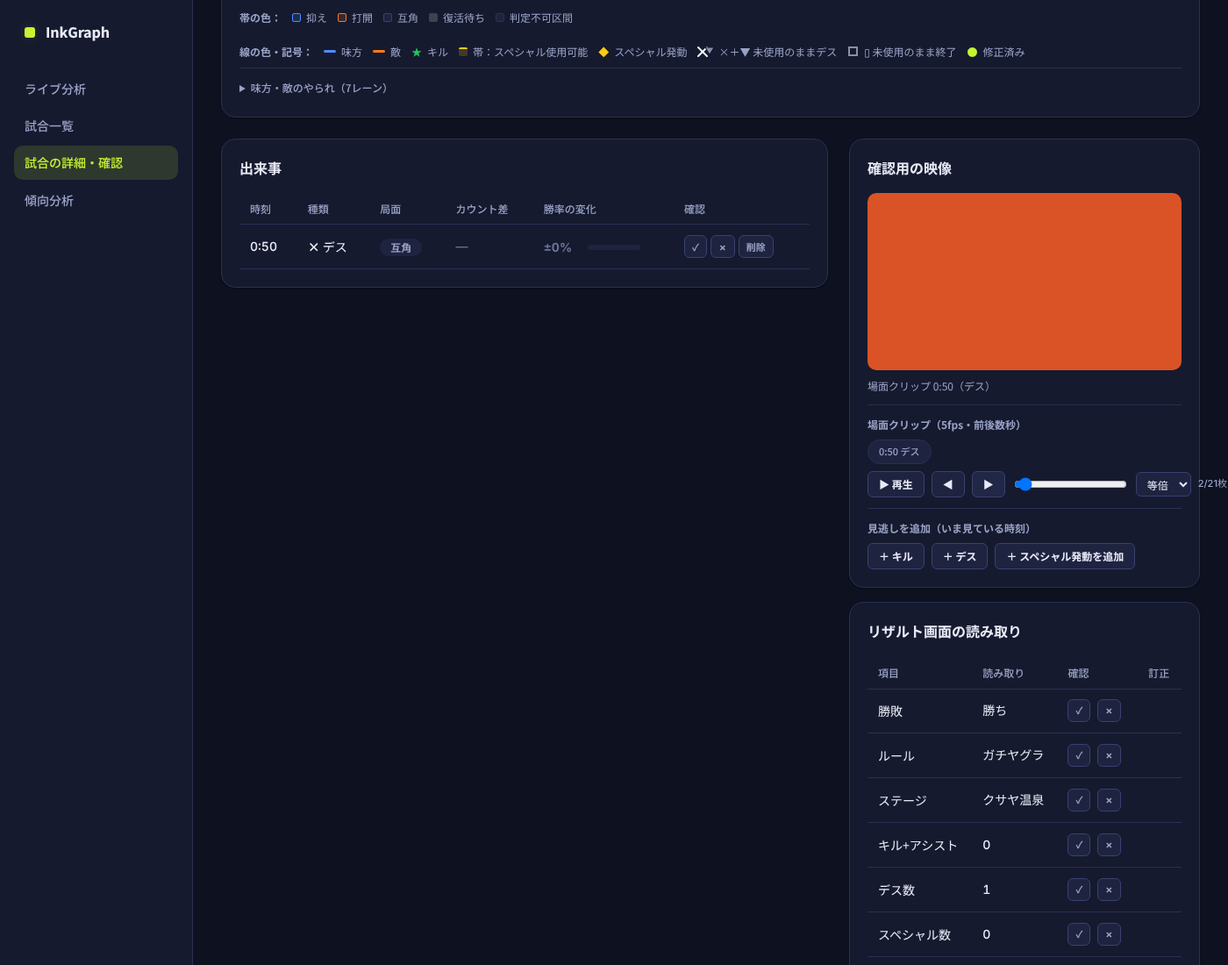
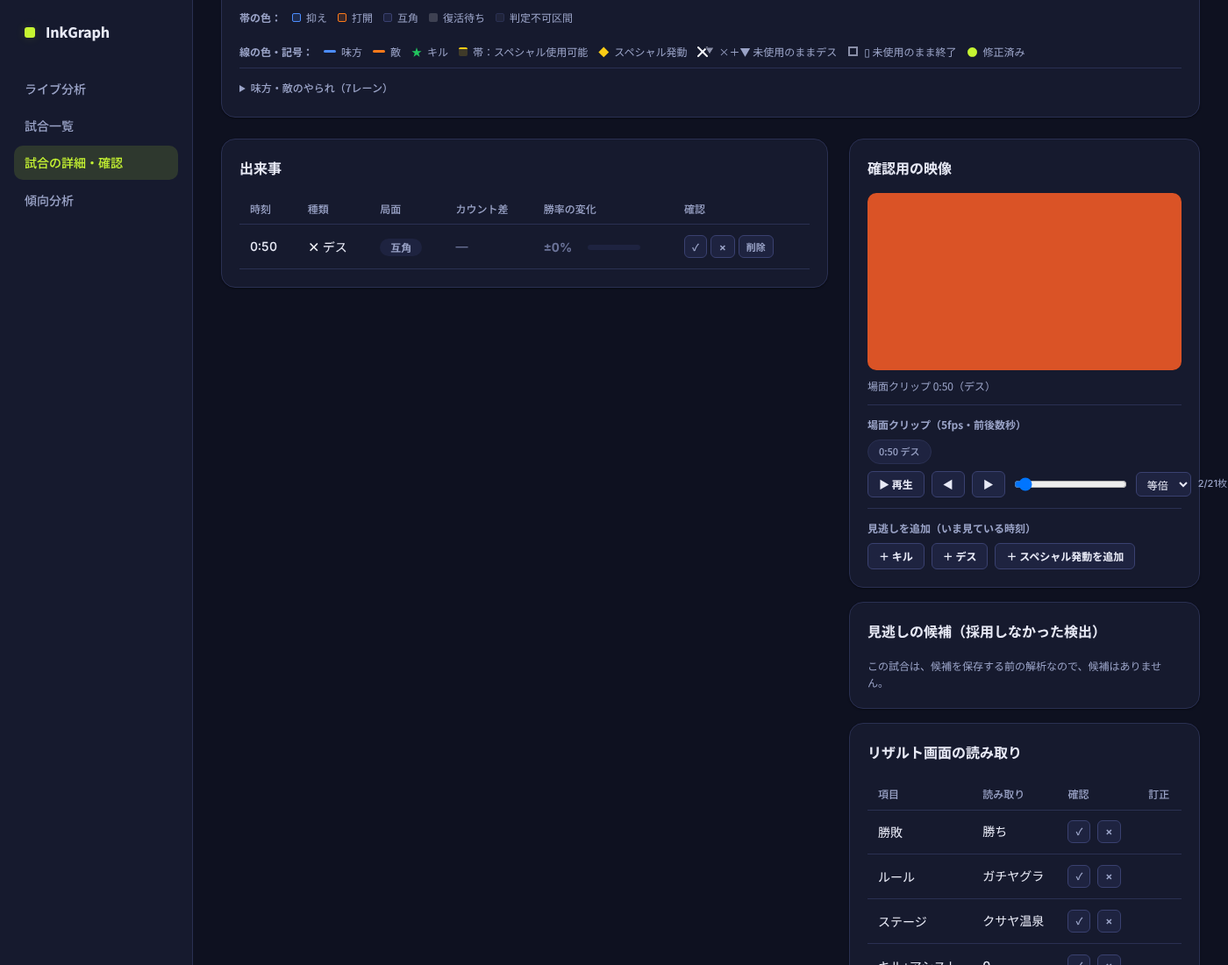
採用しなかった候補を記録に残し、レビューで人が目星をつけて追加・見送りできる (D78) (#176)
* 検証録画: 直近1試合の全コマ＋分析結果のzip書き出し (D67)

Claude-Session: https://claude.ai/code/session_018zsqgbHNLDpb8cVTBpk5SR

* 試合ごとの録画ファイル: ルール・ステージ入りの名前で1試合1ファイル (D68)

Claude-Session: https://claude.ai/code/session_018zsqgbHNLDpb8cVTBpk5SR

* 試合録画にゲーム音を追加 (D68追記)

Claude-Session: https://claude.ai/code/session_018zsqgbHNLDpb8cVTBpk5SR

* ブキアイコンの読み違い対策（ボードの数が読めない枠を捨てる・絵の無いアイコンを出さない）と記録の全消去ボタン (D69)

Claude-Session: https://claude.ai/code/session_018zsqgbHNLDpb8cVTBpk5SR

* 試合録画: 状況表示と保存先の書き込み許可の聞き直し (D70)

Claude-Session: https://claude.ai/code/session_018zsqgbHNLDpb8cVTBpk5SR

* 試合録画: 2試合連続で別ファイルになることのテストを追加

Claude-Session: https://claude.ai/code/session_018zsqgbHNLDpb8cVTBpk5SR

* Windows デスクトップ版（Electron）の追加。ブラウザ版は録画なし・隠さない注意つきで残す (D71)

Claude-Session: https://claude.ai/code/session_018zsqgbHNLDpb8cVTBpk5SR

* 録画の診断通知を各段階に追加 (D71追記)

Claude-Session: https://claude.ai/code/session_018zsqgbHNLDpb8cVTBpk5SR

* Windows版ビルドをmainの変更で自動実行し、固定リリース desktop-latest に出す

Claude-Session: https://claude.ai/code/session_018zsqgbHNLDpb8cVTBpk5SR

* ライブ映像で「早送り」が渡って録画・中断検出が切れていた不具合を修正 (D71追記)

Claude-Session: https://claude.ai/code/session_018zsqgbHNLDpb8cVTBpk5SR

* 録画形式をMP4(H.264)にする。WebMも選べる (D72)

Claude-Session: https://claude.ai/code/session_018zsqgbHNLDpb8cVTBpk5SR

* video_rec_check: 既定のMP4に合わせてテストを更新

Claude-Session: https://claude.ai/code/session_018zsqgbHNLDpb8cVTBpk5SR

* 録画を60fps・音声192kbpsに。画質(5/8/12Mbps)を選べる (D72追記)
[…]

diff --git a/web/src/main.js b/web/src/main.js
@@ -2024,6 +2024,7 @@ PAGES.match = async () => {
 
   m.review = m.review || { marks: {}, added: [], fix: {}, rmarks: {} };
   m.review.rmarks = m.review.rmarks || {};
+  m.review.cand_dismissed = m.review.cand_dismissed || [];
   m.review.fix = m.review.fix || {};
   const save = async () => {
     m.review.updated = new Date().toISOString();
@@ -2136,6 +2137,12 @@ PAGES.match = async () => {
             </div>
           </div>
         </div>
+
+        ${m.remote ? '' : `<div class="card" id="cand-card">
+          <div class="card-title">見逃しの候補（採用しなかった検出）</div>
+          <div class="muted" id="cand-hint" style="font-size:var(--fs-xs);margin-bottom:6px"></div>
+          <div id="cand-list"></div>
+        </div>`}
 
         <div class="card">
           <div class="card-title">リザルト画面の読み取り</div>
@@ -2419,9 +2426,58 @@ PAGES.match = async () => {
     if (tlEl && tlEl.setPlayhead) tlEl.setPlayhead(t);
   };
 
+  // D78: 採用しなかった候補。検知できなかった出来事（足りないデス等）の場所を探すための目星。録画の該当箇所を見て、あれば追加、無ければ見送る
+  const CAND_KINDS = [['death', 'デス'], ['special', 'スペシャル発動'], ['kill', 'キル']];
+  const SIG_JA = { sig: '「やられた」表示', hud: 'HUD の自分アイコン×', killer: '倒した相手の吹き出し', notice: 'キル通知', notice_soft: '弱いキル通知', enemy: '敵アイコン×' };
+  const SRC_JA = { signal_soft: '「やられた」が弱い', hud_soft: 'HUD の自分アイコンだけ' };
+  const candTime = (kind, c) => (kind === 'special' ? c.end : c.start);
+  const candKey = (kind, c) => `${kind}@${candTime(kind, c).toFixed(1)}`;
+  const candAdded = (kind, c) => (m.review.added || []).some(a => a.kind === kind && Math.abs(a.t - candTime(kind, c)) <= 1.5);
+  const candDismissed = (kind, c) => (m.review.cand_dismissed || []).includes(candKey(kind, c));
+  let candShowAll = false, candShowDismissed = false;
+  const visibleCands = () => { const out = []; for (const [k] of CAND_KINDS) for (const c of ((m.cands || {})[k] || [])) if (!candAdded(k, c) && !candDismissed(k, c)) out.push({ kind: k, t: candTime(k, c), from: k === 'special' ? c.ready : undefined, conf: c.conf }); return out; };
+  const candDraw = () => {
+    const host = $('#cand-list', page), hint = $('#cand-hint', page); if (!host) return;
+    if (!m.cands) { hint.textContent = ''; host.innerHTML = '<div class="muted">この試合は、候補を保存する前の解析なので、候補はありません。</div>'; return; }
+    const eff = effective(m), cnt = k => eff.filter(e => e.kind === k).length, r = resultOf(m), L = [];
+    const gap = (lab, target, k) => { if (!Number.isInteger(target)) return; const n = cnt(k), d = target - n; L.push(`${lab}: リザルト画面 ${target}／いまの記録 ${n} → ${d > 0 ? `<strong>あと ${d} 件足りません</strong>` : d < 0 ? `<strong>${-d} 件多い</strong>（誤検出の可能性。出来事の ✗ で外せます）` : '一致'}`); };
+    gap('デス', r.deaths, 'death'); gap('スペシャル発動', r.specials, 'special');
+    if (Number.isInteger(r.ka)) L.push(`キル: K+A ${r.ka}／いまの記録 ${cnt('kill')}（アシスト込みなので、少なくても不足とは限りません${cnt('kill') > r.ka ? '。<strong>K+A を超えています</strong>' : ''}）`);
+    hint.innerHTML = L.join('<br>') || 'リザルト画面の数を読めていないので、足りない数は分かりません。';
+    const sigText = c => [...(c.sigs || []).map(x => SIG_JA[x] || x), ...(c.src && !(c.sigs || []).length ? [SRC_JA[c.src] || c.src] : [])].join('・') || '信号が弱い';
+    let html = '';
+    for (const [k, lab] of CAND_KINDS) {
+      let list = ((m.cands || {})[k] || []).filter(c => candShowDismissed || !candDismissed(k, c)).sort((a, b) => b.conf - a.conf);
+      if (!list.length) { html += `<div class="review-section-title" style="margin-top:8px">${lab}</div><div class="muted" style="font-size:var(--fs-xs)">候補なし</div>`; continue; }
+      const total = list.length; if (!candShowAll) list = list.slice(0, 6);
+      html += `<div class="review-section-title" style="margin-top:8px">${lab}（確信度の高い順）</div>` + list.map(c => {
+        const added = candAdded(k, c), dis = candDismissed(k, c), t = candTime(k, c);
+        return `<div class="cand-row" data-kind="${k}" data-t="${t}" style="display:flex;align-items:center;gap:6px;flex-wrap:wrap;padding:3px 0;opacity:${dis ? 0.5 : 1}">
+          <span class="num" style="min-width:44px">${mss1(t)}</span><span class="muted" style="font-size:var(--fs-xs);min-width:40px">${Math.round(c.conf * 100)}%</span>
+          <span class="muted" style="font-size:var(--fs-xs);flex:1;min-width:120px">${esc(sigText(c))}</span>
+          <button class="btn btn-sm cand-see" type="button">見る</button>
+          ${added ? '<span class="muted">追加済み</span>' : dis ? '<button class="btn btn-sm cand-undismiss" type="button">戻す</button>' : '<button class="btn btn-sm cand-add" type="button">＋ 追加</button><button class="btn btn-sm cand-dismiss" type="button">見送る</button>'}
+        </div>`;
+      }).join('') + (total > 6 && !candShowAll ? `<div class="muted" style="font-size:var(--fs-xs)">ほか ${total - 6} 件</div>` : '');
+    }
+    html += `<div style="margin-top:8px;display:flex;gap:12px;flex-wrap:wrap;font-size:var(--fs-xs)"><label><input type="checkbox" id="cand-all" ${candShowAll ? 'checked' : ''}> すべて表示</label><label><input type="checkbox" id="cand-dis" ${candShowDismissed ? 'checked' : ''}> 見送った候補も表示</label></div>
+      <div class="muted" style="font-size:var(--fs-xs);margin-top:4px">タイムラインの点線の丸（？）が候補です。録画で確かめて、あれば「追加」、無ければ「見送る」。追加すると、時刻つきの正解データになります。</div>`;
+    host.innerHTML = html;
+    host.querySelectorAll('.cand-row').forEach(row => {
+      const k = row.dataset.kind, t = +row.dataset.t, c = ((m.cands || {})[k] || []).find(x => Math.abs(candTime(k, x) - t) < 1e-6);
+      $('.cand-see', row).onclick = () => seek(t);
+      const add = $('.cand-add', row); if (add) add.onclick = async () => { m.review.added.push({ kind: k, t: Math.round(t * 10) / 10, cand: { conf: c.conf, src: c.src ?? null, sigs: c.sigs ?? null } }); await save(); refresh(); };
+      const dis = $('.cand-dismiss', row); if (dis) dis.onclick = async () => { m.review.cand_dismissed.push(candKey(k, c)); await save(); refresh(); };
+      const und = $('.cand-undismiss', row); if (und) und.onclick = async () => { m.review.cand_dismissed = m.review.cand_dismissed.filter(x => x !== candKey(k, c)); await save(); refresh(); };
+    });
+    $('#cand-all', host).onchange = e => { candShowAll = e.target.checked; candDraw(); };
+    $('#cand-dis', host).onchange = e => { candShowDismissed = e.target.checked; candDraw(); };
+  };
+
   const drawTL = (opts = {}) => {
     tlEl = renderTimeline(m, {
       reviewMode,
+      cands: reviewMode ? visibleCands() : null,
       onSeek: seek,
       // ヤグラ保持ラベル / カウント点の変更: 保存して帯を描き直す（カウント追加・削除ではポップオーバーを開いたままにする）
       onReviewChange: async ({ reopen, focus }) => { await save(); drawTL({ reopen, focus }); },
@@ -2620,6 +2676,7 @@ PAGES.match = async () => {
     drawTL();
     etab();
     accDraw();
+    candDraw();
   };
 
   rtab();

diff --git a/desktop/tools/desktop_check.js b/desktop/tools/desktop_check.js
@@ -148,6 +148,26 @@ app.whenReady().then(async () => {
     await js(`document.querySelector('#rec-repair-btn').click()`); await sleep(3500);
     const a1 = atoms(fragPath), flag2 = await js(`window.inkgraph.db.getMatch('old#1').then(m => m.recording.remuxed)`);
     check(a1.includes('moov') && a1.indexOf('moov') < a1.indexOf('mdat') && !a1.includes('moof') && flag2 === true && await js(`!document.querySelector('#rec-repair')`), '(24) 変換すると、シークできる形式になり、印が付いてボタンが消える', a1.join(','));
+    // D78: 採用しなかった候補。レビューで、足りない出来事の場所を探す目星として出る。追加すると見逃しとして記録され、見送ると隠れる
+    await js(`window.inkgraph.db.putMatch({ id: 'cand#1', match: 1, created: new Date().toISOString(), battle: [0, 100], squid_down: {}, own_deaths: [{ start: 20, end: 22, conf: 0.9 }], own_kills: [], special: [], stills: { count: 0, bytes: 0 }, video: { kind: 'none' },
+      result_screen: { result: 'WIN', mode: 'ガチエリア', stage: 'テスト', own: { ka: 3, deaths: 3, specials: 0 } },
+      cands: { death: [{ start: 40, end: 42, conf: 0.7, src: 'hud_soft', sigs: ['hud'] }, { start: 60, end: 62, conf: 0.3, src: 'signal_soft', sigs: ['sig'] }, { start: 80, end: 82, conf: 0.2, src: 'signal_soft', sigs: ['sig'] }], special: [{ ready: 50, end: 55, conf: 0.25 }], kill: [{ start: 70, end: 71.5, conf: 0.2, sigs: ['notice_soft'] }] },
+      review: { marks: {}, added: [], fix: {}, rmarks: {} } })`);
+    await js(`window.inkgraph.setReviewMode(true); window.inkgraph.nav('match', 'cand#1')`); await sleep(2500);
+    const c1 = await js(`({ hint: document.querySelector('#cand-hint').textContent, rows: [...document.querySelectorAll('.cand-row')].map(r => r.dataset.kind), marks: document.querySelectorAll('.cand-mark').length, first: document.querySelector('.cand-row[data-kind=death]').textContent.replace(/\\s+/g, ' ').trim() })`);
+    check(/デス: リザルト画面 3／いまの記録 1 → あと 2 件足りません/.test(c1.hint) && c1.rows.filter(x => x === 'death').length === 3 && c1.rows.length === 5 && c1.marks === 5 && /0:40/.test(c1.first) && /70%/.test(c1.first) && /HUD の自分アイコン×/.test(c1.first), '(26) レビューで、足りない数と、採用しなかった候補（確信度の高い順・信号つき）、タイムラインの候補の印が出る', JSON.stringify(c1));
+    await js(`document.querySelector('.cand-row[data-kind=death] .cand-add').click()`); await sleep(800);
+    const c2 = await js(`window.inkgraph.db.getMatch('cand#1').then(m => ({ added: m.review.added, hint: document.querySelector('#cand-hint').textContent, marks: document.querySelectorAll('.cand-mark').length, row: document.querySelector('.cand-row[data-kind=death] span:last-of-type')?.textContent }))`);
+    check(c2.added.length === 1 && c2.added[0].kind === 'death' && c2.added[0].t === 40 && c2.added[0].cand.conf === 0.7 && /あと 1 件足りません/.test(c2.hint) && c2.marks === 4, '(27) 「追加」で、候補の時刻に見逃しとして追加され（候補の確信度つき）、足りない数と印が更新される', JSON.stringify(c2));
+    await js(`[...document.querySelectorAll('.cand-row[data-kind=death] .cand-dismiss')][0].click()`); await sleep(800);
+    const c3 = await js(`window.inkgraph.db.getMatch('cand#1').then(m => ({ dis: m.review.cand_dismissed, rows: document.querySelectorAll('.cand-row[data-kind=death]').length, marks: document.querySelectorAll('.cand-mark').length }))`);
+    check(c3.dis.length === 1 && /^death@/.test(c3.dis[0]) && c3.rows === 2 && c3.marks === 3, '(28) 「見送る」で、その候補が隠れ、印も消える', JSON.stringify(c3));
+    await js(`document.querySelector('#cand-dis').click()`); await sleep(500);
+    check(await js(`document.querySelectorAll('.cand-row[data-kind=death]').length === 3 && !!document.querySelector('.cand-undismiss')`), '(29) 「見送った候補も表示」で再表示でき、「戻す」が出る');
+    // 要修正パックに、候補の使われ方が入る
+    const fd = await js(`window.inkgraph.db.getMatch('cand#1').then(m => window.inkgraph.buildFixPack([m]).then(async r => { const u = new Uint8Array(await r.blob.arrayBuffer()); let s = ''; for (let i = 0; i < u.length; i += 32768) s += String.fromCharCode(...u.subarray(i, i + 32768)); return btoa(s); }))`);
+    const z2 = require('../../web/node_modules/fflate').unzipSync(new Uint8Array(Buffer.from(fd, 'base64'))), dj = JSON.parse(require('../../web/node_modules/fflate').strFromU8(z2[Object.keys(z2).find(n => n.endsWith('diff.json'))]));
+    check(dj.candidates.saved && dj.candidates.added_from_candidates === 1 && dj.candidates.dismissed === 1 && dj.misses[0].from_candidate === true, '(30) 要修正パックの diff に、候補の使われ方（候補から追加／見送った数）が入る', JSON.stringify(dj.candidates));
   } catch (e) { console.log('FAIL exception', e); fails++; }
   fs.rmSync(tmp, { recursive: true, force: true }); app.exit(fails ? 1 : 0);
 });

diff --git a/web/src/fix_pack.js b/web/src/fix_pack.js
@@ -22,11 +22,13 @@ export function diffOf(m) {
   const r = m.review || { marks: {}, added: [], fix: {}, rmarks: {} };
   const det = detected(m), fp = [], confirmed = []; let unreviewed = 0;
   for (const e of det) { const o = { kind: e.kind, t: r1(e.t), rel: rel(m, e.t), key: e.key }; if (e.mark === 'wrong' || e.mark === 'deleted') fp.push(o); else if (e.mark === 'ok') confirmed.push(o); else unreviewed++; }
-  const misses = (r.added || []).map(a => ({ kind: a.kind, t: r1(a.t), rel: rel(m, a.t) }));
+  const misses = (r.added || []).map(a => ({ kind: a.kind, t: r1(a.t), rel: rel(m, a.t), from_candidate: !!a.cand, candidate_conf: a.cand ? a.cand.conf : null }));
   const rs = m.result_screen || {}, own = rs.own || {}, read = { result: rs.result, mode: rs.mode, stage: rs.stage, ka: own.ka, deaths: own.deaths, specials: own.specials }, fixes = [];
   for (const [f, v] of Object.entries(r.fix || {})) if (v !== undefined && v !== null && v !== '') fixes.push({ field: f, label: RESULT_FIELDS[f] || f, software: read[f] ?? null, human: v });
   const wrongNoFix = Object.entries(r.rmarks || {}).filter(([f, v]) => v === 'wrong' && !(r.fix && r.fix[f] !== undefined)).map(([f]) => f);
-  return { false_positives: fp, misses, confirmed, result_fixes: fixes, result_wrong_without_value: wrongNoFix, unreviewed };
+  // D78: 候補（採用しなかった検出）の使われ方。見逃しのうち、候補にあったもの（目星が当たった）と、候補に無かったもの（検出の取りこぼし）
+  const candidates = { saved: !!m.cands, added_from_candidates: misses.filter(x => x.from_candidate).length, added_not_in_candidates: misses.filter(x => !x.from_candidate).length, dismissed: (r.cand_dismissed || []).length };
+  return { false_positives: fp, misses, confirmed, result_fixes: fixes, result_wrong_without_value: wrongNoFix, unreviewed, candidates };
 }
 
 /** 録画（または静止画）から切り出すコマの時刻（解析時刻 t）。差分の前後 ±win 秒を step 秒おき。重なりはまとめる */
@@ -62,7 +64,8 @@ export function fixReadme({ count, exported, withFrames }) {
     '',
     '【中身】（試合ごとに matches/<id>/）',
     '- summary.json … ソフトの検出（デス・キル・スペシャル）・結果画面の読み取り・人が直したあとの値・補正の履歴',
-    '- diff.json … ソフトと人の差分。false_positives=誤検出（ソフトは出したが実際は無い）、misses=見逃し（人が追加）、confirmed=合っていた検出、result_fixes=結果画面の読み違い。各項目の t は解析時刻[秒]、rel はバトル開始からの秒',
+    '- diff.json … ソフトと人の差分。false_positives=誤検出（ソフトは出したが実際は無い）、misses=見逃し（人が追加。from_candidate=採用しなかった候補から追加したか）、confirmed=合っていた検出、result_fixes=結果画面の読み違い、candidates=候補の使われ方（候補にあった見逃し／候補に無かった見逃し／見送った候補の数）。各項目の t は解析時刻[秒]、rel はバトル開始からの秒',
+    '- software.json の cands … ソフトが採用しなかった候補（デス・スペシャル・キル。時刻・確信度・信号）。見逃しが候補にあったなら、採用の基準（閾値・合議）の問題、候補にも無ければ、信号そのものの取りこぼし',
     '- human_review.json … 人が付けた ✓／✗ の印・追加した見逃し・訂正した値（review）',
     '- software.json … ソフトの分析結果そのもの（rec。cues=フレームごとの信号を含む）',
     '- frames/ … 差分の前後のコマ（録画から切り出し）。ファイル名は 解析時刻。diff.json の frames に対応表あり',

diff --git a/web/src/core/analyzer.js b/web/src/core/analyzer.js
@@ -250,7 +250,8 @@ export function killEventsFromSlots(t, F) {
   events.sort((x, y) => x.start - y.start || x.slot - y.slot);
   return events.map(e => ({ start: e.start, end: e.end }));
 }
-export const SOFT_DEATH_TH = 0.35, SOFT_READY_TH = 0.12;
+export const SOFT_DEATH_TH = 0.35, SOFT_READY_TH = 0.12, SOFT_KILL_TH = 0.3;
+export const CAND_MAX = 15, CAND_MIN_CONF = 0.1; // D78: 記録に残す、採用しなかった候補の数の上限（種類ごと）と確信度の下限
 const meanOf = a => a.length ? a.reduce((s, v) => s + v, 0) / a.length : 0;
 export function buildMatch(m, no, srcH, ctx = {}) {
   // キル通知のしきい値（kill_th）は保存した通知スコア（ksc）から判定し直す。既定 0.6 は従来の killNoticeSlots と同じ
@@ -310,8 +311,17 @@ export function buildMatch(m, no, srcH, ctx = {}) {
     : runs(t, F.map(f => f.kill), 0.2, 1.0).map(([a, b]) => ({ start: r1(a), end: r1(b) }));
   const enemyDown = ['R0', 'R1', 'R2', 'R3'].flatMap(k => ev[k] || []).filter(e => e.src === 'hud').map(e => e.start);
   for (const e of kills) { const r = fuseKill({ notice: Math.max(0, ...inWin(e.start - 0.2, e.end + 0.2).map(f => f.ks || 0)), enemy: enemyDown.some(s => s >= e.start - 1.5 && s <= e.end + 2.5) }); e.conf = r.conf; e.sigs = r.signals; }
+  // D78: 採用しなかった候補（レビューで、検知できなかった出来事の場所を探すための目星）。種類ごとに確信度の高い順に上限まで
+  const nearAny = (a, b, L, ka, kb, m2) => L.some(e => a <= e[kb] + m2 && e[ka] <= b + m2);
+  const killCands = runs(t, F.map(f => (f.ks || 0) >= SOFT_KILL_TH), 0.3, 1.0).map(([a, b]) => { const w = inWin(a - 0.2, b + 0.2), r = fuseKill({ notice: Math.max(0, ...w.map(f => f.ks || 0)), enemy: enemyDown.some(x => x >= a - 1.5 && x <= b + 2.5) }); const nt = Math.max(0, ...w.map(f => f.ks || 0)); return { start: r1(a), end: r1(b), conf: Math.max(r.conf, +(0.1 + 0.3 * Math.min(1, Math.max(0, (nt - SOFT_KILL_TH) / 0.3))).toFixed(2)), sigs: r.signals.length ? r.signals : ['notice_soft'] }; })
+    .filter(c => !nearAny(c.start, c.end, kills, 'start', 'end', 1.5));
+  const cands = {
+    death: deathCands.filter(c => c.conf >= CAND_MIN_CONF).sort((a, b) => b.conf - a.conf).slice(0, CAND_MAX).map(c => ({ start: c.start, end: c.end, conf: c.conf, src: c.src, sigs: c.sigs })).sort((a, b) => a.start - b.start),
+    special: spCands.filter(c => c.conf >= CAND_MIN_CONF && !nearAny(c.ready, c.end, sp, 'ready', 'end', 1.0)).sort((a, b) => b.conf - a.conf).slice(0, CAND_MAX).sort((a, b) => a.ready - b.ready),
+    kill: killCands.filter(c => c.conf >= CAND_MIN_CONF).sort((a, b) => b.conf - a.conf).slice(0, CAND_MAX).sort((a, b) => a.start - b.start)
+  };
   const rr = x => x.map(([a, b]) => [r1(a), r1(b)]); const dur = n ? t[n - 1] - t[0] : 0;
-  const rec = { match: no, battle: [r1(m.a), r1(m.b)], squid_down: ev, own_deaths: ev.L0, special: sp, own_kills: kills, hud_hidden: rr(hidden), map_open: rr(maps),
+  const rec = { match: no, battle: [r1(m.a), r1(m.b)], squid_down: ev, own_deaths: ev.L0, special: sp, own_kills: kills, cands, hud_hidden: rr(hidden), map_open: rr(maps),
     stats: { duration: r1(dur), map_open_s: r1(maps.reduce((s, [a, b]) => s + b - a, 0)), hud_hidden_s: r1(hidden.reduce((s, [a, b]) => s + b - a, 0)) }, team_hue: m.th };
   for (const e of rec.own_deaths) { const [a, b] = aliveAt(rec, e.start - 0.5); e.alive_before = `${a}v${b}`; }
   attachKillers(rec.own_deaths, m.kscan || []);

diff --git a/web/src/timeline.js b/web/src/timeline.js
@@ -38,7 +38,7 @@ export const LEGEND = `
   </div>
 </div>`;
 
-export function renderTimeline(m, { onSeek, onReviewChange, reviewMode } = {}) {
+export function renderTimeline(m, { onSeek, onReviewChange, reviewMode, cands = null } = {}) {
   if (popAbort) popAbort.abort();
   popAbort = new AbortController();
   const popSignal = popAbort.signal;
@@ -155,6 +155,19 @@ export function renderTimeline(m, { onSeek, onReviewChange, reviewMode } = {}) {
       + `<line x1="${ax.toFixed(1)}" x2="${ax.toFixed(1)}" y1="${ownY}" y2="${ownY + ownH}" stroke="var(--special)" stroke-width="2"/>`
       + `<polygon points="${ax.toFixed(1)},${ownY + 2} ${(ax + 5).toFixed(1)},${ownY + 7} ${ax.toFixed(1)},${ownY + 12} ${(ax - 5).toFixed(1)},${ownY + 7}" fill="var(--special)" class="sp-activated-diamond"/>`
       + `</g>`;
+  }
+
+  // D78: 採用しなかった候補（レビューモードのみ）。見逃しの場所を探す目星。点線の丸＝候補（濃いほど確信度が高い）、スペシャルは点線の帯
+  if (cands && cands.length) {
+    const CK = { kill: 'キル', death: 'デス', special: 'スペシャル発動' };
+    for (const c of cands) {
+      const cx = X(c.t), cy = rowY[c.kind], op = (0.45 + 0.55 * Math.min(1, c.conf * 1.4)).toFixed(2);
+      const tip = `候補 ${mss(c.t - t0)} ${CK[c.kind] || c.kind}（確信度 ${Math.round(c.conf * 100)}%）`;
+      body += `<g class="cand-mark" data-t="${c.t}" data-kind="${c.kind}" style="cursor:pointer" opacity="${op}"><title>${tip}</title>`
+        + (c.kind === 'special' && c.from != null ? `<rect x="${X(c.from).toFixed(1)}" y="${cy - 5}" width="${Math.max(2, X(c.t) - X(c.from)).toFixed(1)}" height="10" fill="none" stroke="var(--special)" stroke-width="1" stroke-dasharray="3 2"/>` : '')
+        + `<circle cx="${cx.toFixed(1)}" cy="${cy}" r="7" fill="var(--bg, #111)" fill-opacity="0.6" stroke="var(--text-muted)" stroke-width="1.5" stroke-dasharray="3 2"/>`
+        + `<text x="${cx.toFixed(1)}" y="${cy + 4}" text-anchor="middle" font-size="10" fill="var(--text-muted)" pointer-events="none">?</text></g>`;
+    }
   }
 
   // ---------------- 4. 勝率グラフ (132px >= 120px) ----------------
@@ -473,6 +486,7 @@ export function renderTimeline(m, { onSeek, onReviewChange, reviewMode } = {}) {
     });
   });
 
+  wrap.querySelectorAll('.cand-mark').forEach(g => g.addEventListener('click', e => { e.stopPropagation(); if (onSeek) onSeek(+g.dataset.t); }));
   wrap.querySelectorAll('.ev').forEach(g => g.addEventListener('click', e => {
     e.stopPropagation();
     if (onSeek) onSeek(+g.dataset.t);

diff --git a/docs/DECISIONS.md b/docs/DECISIONS.md
@@ -868,3 +868,11 @@
 - 残したもの：複数信号の融合（D53。件数合わせではない）、自動調整（D54。結果画面の件数は評価の物差しだけ）、手入力の値（`review.fix`）、**手入力に合わせて検出を直す機能（D57）**。D57 の扱い（廃止するか）は別途決める。
 - 検証：`web/tools/count_check_check.mjs`（11 件）、`reconcile_check`（補正の部品は従来どおり。`reconcile: true` を明示した統合確認と、既定では補正しない 12b を追加）、`desktop/tools/desktop_check.js`（27 件 PASS。不一致の試合に自動で印が付き、件数は補正されない・ライブの突き合わせ・通知・ボタンで外せる）、既存の確認も PASS。**未確認：実際の映像での不一致の頻度。**
 - 追記（D77）手入力補正（D57）も廃止：結果画面の値を手入力で直したとき、その値に合わせて検出を作り直す機能（`recorrect.js`）を削除した。D52 と同じく推定した時刻に出来事を足すため、正解データを汚す。これで補正の部品 `core/reconcile.js` も不要になり、削除した（`buildMatch` の `ctx.reconcile`・`rec.recon` の生成も無くなる）。詳細画面の「手入力の値に合わせて検出を直しました」の表示と元に戻すボタンも削除。手入力した値（`review.fix`）は、傾向分析の値と、検出との突き合わせの参考としてだけ使う。旧記録の `recon`・「(自動補正)」の表示は、そのまま残る。確認は `reconcile_check`・`recorrect_check`・`recorrect_ui_check` を削除し、D53 の融合の確認だけ `fusion_check`（4 件）に残した。デスクトップ版の確認 27 件、既存の確認も PASS。次の段階（候補を見て確認・精度の測定）は別途。
+
+## D78 (2026-10-29) 採用しなかった候補を記録に残し、レビューで人が目星をつけて追加できるようにする
+- 目的：件数補正（D77）をやめたので、検知できなかった出来事（例：足りないデス）は、人がレビューで追加する。そのとき「どこにあるか」を探す手間を減らす。採用しなかった検出（候補）を残して見せ、人が録画で確かめて、あれば追加、無ければ見送る。追加は**時刻つきの正解データ**になり、見送りは「誤検出になりうる候補」の否定データになる。
+- 記録：`rec.cands = { death, special, kill }`（`buildMatch`）。種類ごとに確信度（0.1 以上）の高い順に最大 15 件、時刻順で保存。**デス**＝弱い「やられた」信号／HUD の自分アイコンだけ、などで採用されなかった区間（`start`・`end`・`conf`・`src`・`sigs`）。**スペシャル**＝採用した発動と重ならない、弱いゲージの区間（`ready`・`end`・`conf`）。**キル**＝通知スコアが `SOFT_KILL_TH`（0.3）以上で、採用したキルの近く（±1.5 秒）以外の区間（`start`・`end`・`conf`・`sigs`。通知が弱いものは `notice_soft`）。旧記録には無い。クラウド同期の対象（小さい）。
+- レビュー画面（レビューモード）：①**足りない数の目安**＝結果画面の数と、いまの記録（検出＋追加−✗）を比べて「デス：リザルト画面 3／いまの記録 1 → あと 2 件足りません」「K+A を超えています」などを出す。②**「見逃しの候補」カード**＝種類ごとに確信度の高い順（既定 6 件。「すべて表示」あり）。各行に、時刻（バトル開始から）・確信度・理由（信号。例「HUD の自分アイコン×」）と、「見る」（録画のその箇所へ。2 秒前から再生）・「＋追加」（候補の時刻に見逃しとして追加。`review.added` に `cand: { conf, src, sigs }` を付ける）・「見送る」（`review.cand_dismissed` に入れて隠す。「見送った候補も表示」→「戻す」）。③**タイムライン**の自分レーンに、点線の丸「？」（濃いほど確信度が高い。スペシャルは点線の帯）。押すとその時刻へ。追加済み・見送り済みは消える。
+- 要修正パック（D75）：`diff.json` の `misses[].from_candidate`・`candidate_conf` と、`candidates`（候補から追加した数／候補に無かった見逃しの数／見送った数）を追加。**見逃しが候補にあれば、採用の基準（閾値・合議）の問題、候補にも無ければ、信号の取りこぼし**、と原因を切り分けられる。`software.json` に `cands` がある。
+- 検証：`web/tools/fusion_check.mjs`（候補の確認 5 件を追加：弱い信号・HUD だけのデス／弱いゲージ／弱いキル通知が候補に残る・採用したものは入らない・上限 15）、`desktop/tools/desktop_check.js`（32 件 PASS：足りない数の目安・候補の行と印・追加（候補の確信度つき）・見送り・再表示・要修正パックの候補の使われ方）、既存の確認も PASS。**未確認：実際の映像で、見逃しが候補に含まれる割合（目星としての当たり具合）。**
+- 次：精度の測定（毎試合の不一致・候補の当たり率のバージョンごとの推移。D77 の第 2 段階の残り）。
